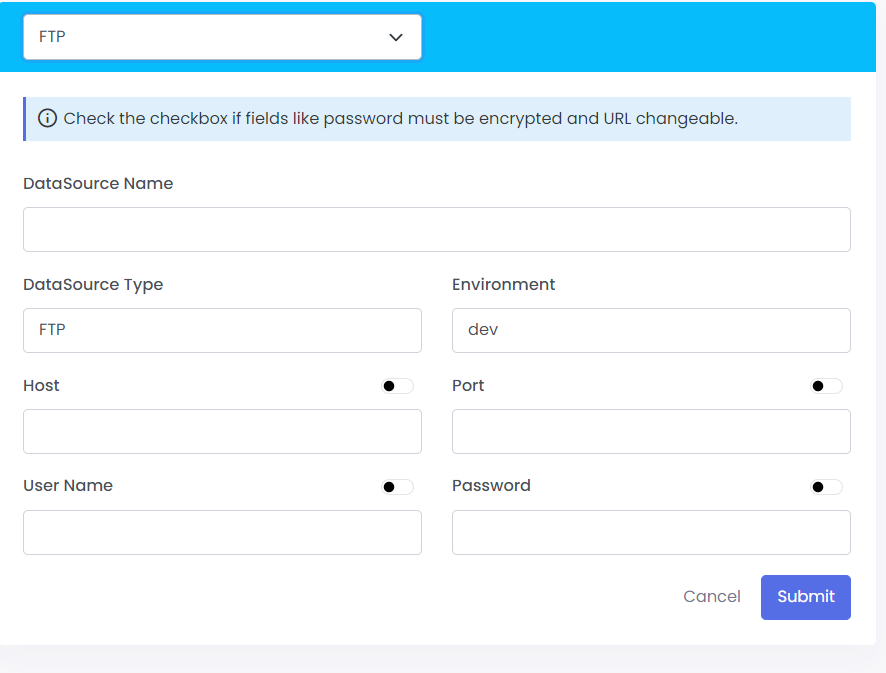
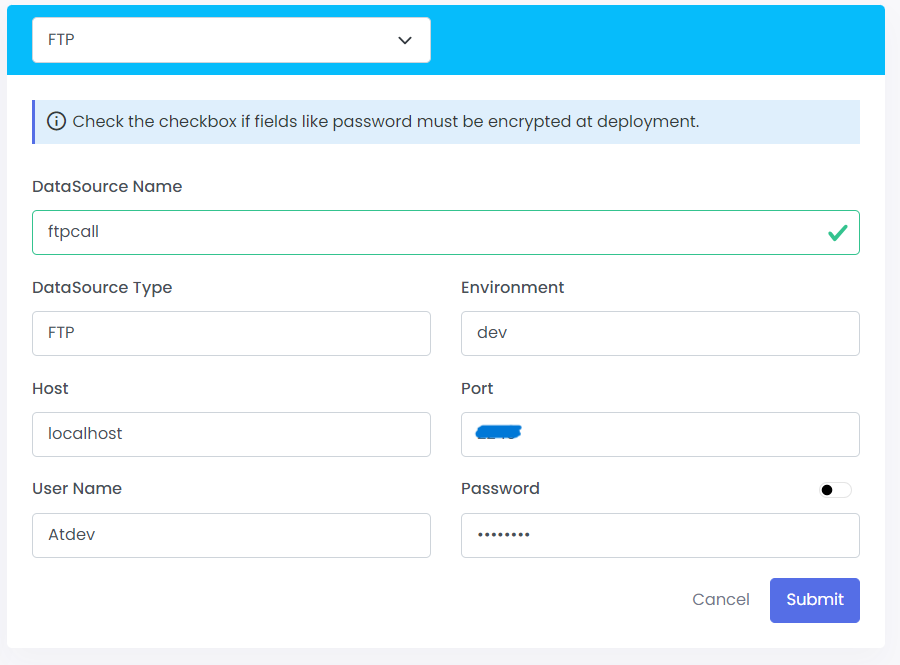
Updated document

diff --git a/docs/Develop Functionality/Data API.md b/docs/Develop Functionality/Data API.md
@@ -6,4 +6,113 @@ import useBaseUrl from '@docusaurus/useBaseUrl';
 
 # Data API
 
+The **Data APIs** represent the CRUD operations for existing database tables. Developers can seamlessly connect to the database, retrieve the tables, and generate CRUD APIs instantly with the click of a button within the integration flow interface
+
+#### Step 1: 
+
+Go to **DEVELOP** >> **Data API** 
+
+<img src={useBaseUrl('/img/Develop Functionality/develop data.png')} />
+
+#### Step 2:
+
+Click on data API and provide 
+Project (refer step 3), 
+Datasource (refer step 4), 
+Database and version.
+
 <img src={useBaseUrl('/img/Develop Functionality/Data API.png')} />
+
+
+#### Step 3:
+
+From drop down select the project, 
+
+<img src={useBaseUrl('/img/Develop Functionality/Project name drop down.png')} />
+
+
+#### Step 4:
+
+For datasource please click on add button and provide the configuration as shown below and submit.
+
+<img src={useBaseUrl('/img/Develop Functionality/data api jdbc config.png')} />
+
+
+#### Step 5:
+
+Select entities from drop down to create the services.
+
+<img src={useBaseUrl('/img/Develop Functionality/data Selecty entities .png')} />
+
+
+#### Step 6:
+
+Please select the entity details.
+
+<img src={useBaseUrl('/img/Develop Functionality/data api entities details.png')} />
+
+
+#### Step 7:
+
+Click on show API.
+
+<img src={useBaseUrl('/img/Develop Functionality/data api Show API.png')} />
+
+
+#### Step 8:
+
+Click on Create API, and all services will be created automatically.
+
+<img src={useBaseUrl('/img/Develop Functionality/data api services.png')} />
+
+
+#### Step 9:
+
+Go to DEVELOP >> Functionality API to see the Implemented API.
+
+<img src={useBaseUrl('/img/Develop Functionality/dev fun.png')} />
+
+
+#### Step 10:
+
+Please select the Project to see the list of end to end implemented services.
+
+<img src={useBaseUrl('/img/Develop Functionality/Data api fun service .png')} />
+
+
+#### Step 11:
+
+An implementation example is shown below:
+
+<img src={useBaseUrl('/img/Develop Functionality/data api end to end service.png')} />
+ 
+
+#### Step 12:
+
+Please find below the automatically populated configuration for REST Trigger component.
+
+<img src={useBaseUrl('/img/Develop Functionality/data api trigger .png')} />
+
+<img src={useBaseUrl('/img/Develop Functionality/data api rest trigger config.png')} />
+
+
+#### Step 13:
+
+Please find below the automatically populated configuration for DB connector.
+
+<img src={useBaseUrl('/img/Develop Functionality/data api db call connector.png')} />
+
+<img src={useBaseUrl('/img/Develop Functionality/data api db call.png')} />
+
+
+#### Step 14:
+
+Please find below the automatically populated configuration for APIRESPONSE transformer.
+
+<img src={useBaseUrl('/img/Develop Functionality/data api api response.png')} />
+
+  
+<img src={useBaseUrl('/img/Develop Functionality/data api response.png')} />
+
+
+This is how you can create your end to end implemented, ready to use API.

diff --git a/docs/Core Development/Connectors/FTP.md b/docs/Core Development/Connectors/FTP.md
@@ -21,8 +21,106 @@ A design that is consistent with the **File** and ****FTP**** Connectors.
 
 The same set of operations is available using these two Connectors, and they behave similarly.
 
-### Configuring **FTP** Connector
+### Configuring FTP Connector
 
 Follow these steps to set up and test a connection to your **FTP**  by creating a reusable global variable for the **FTP** Connector to reference.
 
 <img src={useBaseUrl('/img/Connectors/FTP_connector.png')} />;
+
+Drag and drop the **FTP Connector**
+
+### Configuring FTP Connector
+left click on connector, you can define the **FTP Connector** configration
+
+## Read FTP Connector
+
+<img src={useBaseUrl('/img/Connectors/ftp_read.png')} />;
+
+<table>
+<thead>
+<tr>
+<th>Fields</th>
+<th>Description</th>
+<th>Example</th>
+</tr>
+</thead>
+<tbody>
+<tr>
+<td>Type</td>
+<td>Read/Write</td>
+<td>Read</td>
+</tr>
+<tr>
+<td>Datasource Name</td>
+<td>Datasource Name which is configured in connections properties</td>
+<td>ftpcall</td>
+</tr>
+<tr>
+<td>File Name</td>
+<td>Name of the file to be processed</td>
+<td>Contacts</td>
+</tr>
+<tr>
+<td>File Type</td>
+<td>Format of File</td>
+<td>CSV</td>
+</tr>
+<tr>
+<td>OutPut</td>
+<td>Output</td>
+<td>Rest_output</td>
+</tr>
+<tr>
+<td>Operation</td>
+<td>Operation of the file</td>
+<td>Move</td>
+</tr>
+</tbody>
+</table>
+
+## Write FTP Connector
+
+<img src={useBaseUrl('/img/Connectors/ftp_write.png')} />;
+
+
+<table>
+<thead>
+<tr>
+<th>Fields</th>
+<th>Description</th>
+<th>Example</th>
+</tr>
+</thead>
+<tbody>
+<tr>
+<td>Type</td>
+<td>Read/Write</td>
+<td>Write</td>
+</tr>
+<tr>
+<td>Datasource Name</td>
+<td>Datasource Name which is configured in connections properties</td>
+<td>ftpcall</td>
+</tr>
+<tr>
+<td>File Name</td>
+<td>Processed File</td>
+<td>Contacts</td>
+</tr>
+<tr>
+<td>File Type</td>
+<td>Format of File</td>
+<td>CSV</td>
+</tr>
+<tr>
+<td>Input</td>
+<td>Input</td>
+<td>REQUEST_PAYLOAD</td>
+</tr>
+<tr>
+<td>Append/OverWrite</td>
+<td></td>
+<td>Append</td>
+</tr>
+</tbody>
+</table>

diff --git a/docs/Develop Functionality/Functionality API.md b/docs/Develop Functionality/Functionality API.md
@@ -6,6 +6,9 @@ import useBaseUrl from '@docusaurus/useBaseUrl';
 
 # Functionality API
 
+Utilize the drag-and-drop **functionality** to incorporate Core Integration development Components that efficiently manage a wide range of integration scenarios. These components cover triggers, transformers, connectors, processors, and data mappings, enabling flow invocation through REST, Events, Messages, Databases, Schedulers, Files, and Streams.
+
+
 #### Step 1: 
 
 Go to **DEVELOP** >> **functionality API** 
@@ -20,19 +23,19 @@ In Functionality API You can create the service
 
 #### Step 3: 
 
-Choose the project from the dropdown menu column to create a service within it.
+Select a project from the dropdown menu column to generate a service within it
 
 <img src={useBaseUrl('/img/Develop Functionality/Fun Drop down.png')} />
 
 #### Step 4:
 
-Select the service button, proceed to create the service within, specifying the service name, and choosing the trigger from the dropdown menu as given below.
+Click on the 'Service' button, then proceed to create the service within. Specify the service name and select the trigger from the dropdown menu provided below.
 
 <img src={useBaseUrl('/img/Develop Functionality/Service Test.png')} />
 
 #### Step 5:
 
-After creating the service, you'll be able to implement your API. 
+Once the service is created, you'll have the able to implement your API.
 
 <img src={useBaseUrl('/img/Develop Functionality/fun imple.png')} />
 

diff --git a/docs/Core Development/Connectors/MAIL.md b/docs/Core Development/Connectors/MAIL.md
@@ -5,10 +5,49 @@ sidebar_position: 9
 import useBaseUrl from '@docusaurus/useBaseUrl';
 
 # Mail Connector 
+The Email Connector provides a connection to your email server
 
-## Comming Soon...
+Drag and drop the **Mail Connector**
+
+<img src={useBaseUrl('/img/Connectors/MAIL_connector.png')} />;
 
 
+### Configuring Mail Connector
+left click on connector, you can define the **Mail Connector** configration
+
+<img src={useBaseUrl('/img/Connectors/mail config.png')} />;
+
+<table>
+<thead>
+<tr>
+<th>Fields</th>
+<th>Description</th>
+<th>Example</th>
+</tr>
+</thead>
+<tbody>
+<tr>
+<td>Datasource Name</td>
+<td>Datasource Name which is configured in connections properties</td>
+<td>officalmail</td>
+</tr>
+<tr>
+<td>To</td>
+<td>Whom should the mail be delivered to</td>
+<td>Atdevservicesdemo@gmail.com</td>
+</tr>
+<tr>
+<td>Subject</td>
+<td>The subject of the email intended for delivery</td>
+<td>Test</td>
+</tr>
+<tr>
+<td>Input</td>
+<td>Input</td>
+<td>REQUEST_PAYLOAD</td>
+</tr>
+</tbody>
+</table>
 
 
 

diff --git a/docs/Core Development/Property Config/Connection Properties/DataSource MAIL.md b/docs/Core Development/Property Config/Connection Properties/DataSource MAIL.md
@@ -34,7 +34,7 @@ Email (Email DataSource) sends and retrieves email messages over standard email 
 <tr>
 <td>DataSource Name</td>
 <td>Datasource Name which is configured in connections properties</td>
-<td></td>
+<td>officalmail</td>
 </tr>
 <tr>
 <td>DataSource Type</td>
@@ -49,22 +49,22 @@ Email (Email DataSource) sends and retrieves email messages over standard email 
 <tr>
 <td>Host</td>
 <td>A hostname is a domain name assigned to a host computer</td>
-<td>abcd</td>
+<td>atdev123@gmail.com</td>
 </tr>
 <tr>
 <td>Port</td>
 <td>A port is a virtual point where network connections start and end.</td>
-<td>123</td>
+<td>123***</td>
 </tr>
 <tr>
 <td>User Name</td>
 <td>A name that uses for identification purposes when logging </td>
-<td></td>
+<td>AtdevServices</td>
 </tr>
 <tr>
 <td>Password</td>
 <td>A password is a string of characters used to verify the identity of a user during the authentication process</td>
-<td></td>
+<td>123****</td>
 </tr>
 </tbody>
 </table>

diff --git a/docs/Core Development/Execute API/how to invoke the services.md b/docs/Core Development/Execute API/how to invoke the services.md
@@ -6,25 +6,25 @@ import useBaseUrl from '@docusaurus/useBaseUrl';
 
 # How to Invoke the services
 
-#### Step 6:
+#### Step 1:
 
 Go to the **Application** Column and select the relevant project to initiate the deployed application.
 
 <img src={useBaseUrl('/img/Core Development/Execute API/application colum deploy.png')} />;
 
-#### Step 7:
+#### Step 2:
 
 Within the **Runtime Properties**, Provide the security key for Decryption,Which you have Encrypt then click the **Start** button to deploy your application
 
 <img src={useBaseUrl('/img/Core Development/Execute API/Start deploy .png')} />;
 
-#### Step 8:
+#### Step 3:
 
 Within the Details Column, you'll find all the information about your API, including the deployed URL for testing it.
 
 <img src={useBaseUrl('/img/Core Development/Execute API/details .png')} />;
 
-#### Step 9:
+#### Step 4:
 
 Using the QuickIntegrate deployed URL You can Test your API using Postman Collection
 
